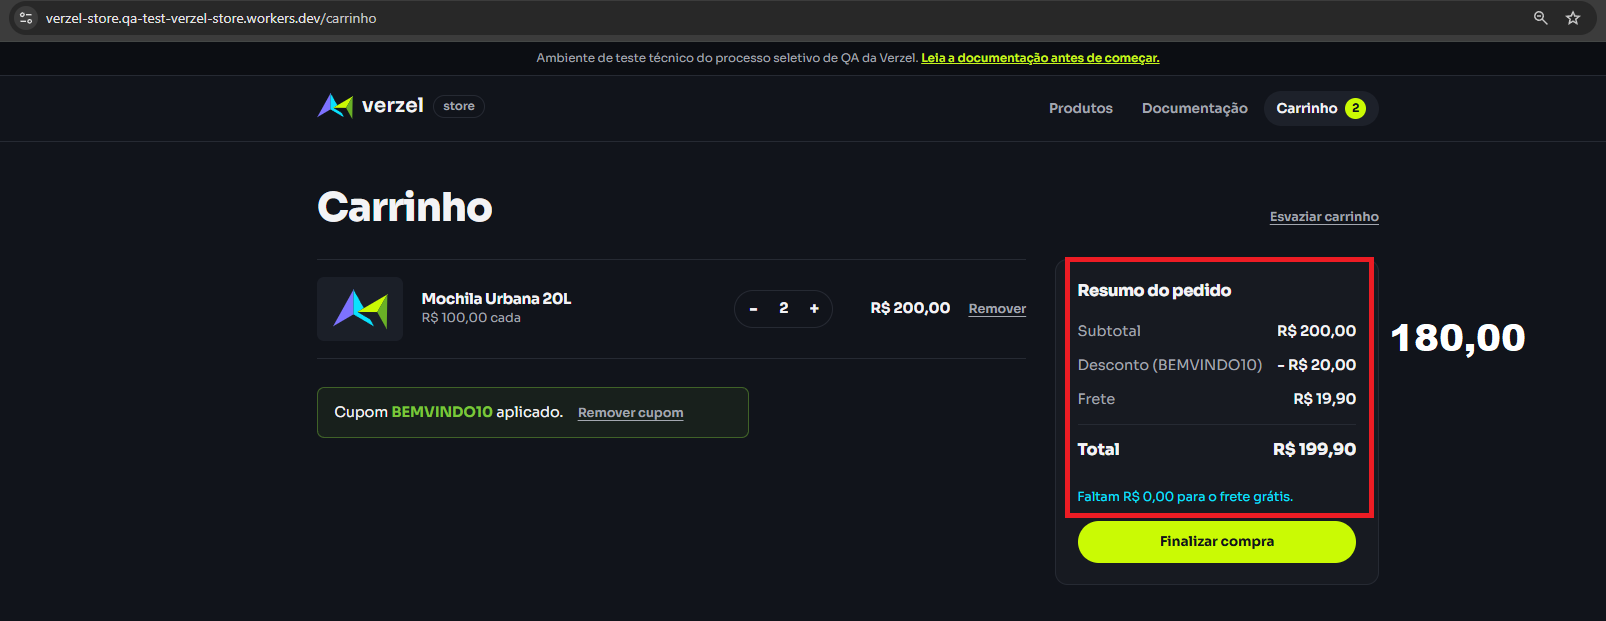
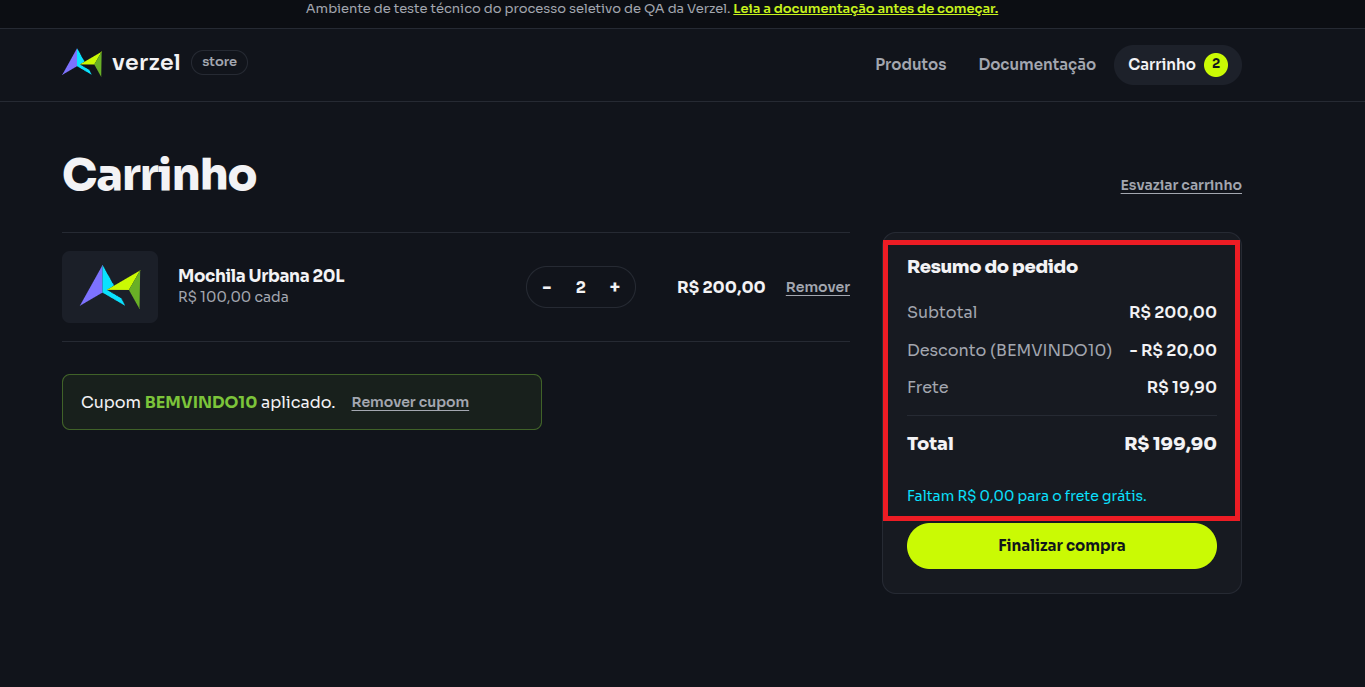
correcao de cenarios evidencias documentar uso de ia e bugs

diff --git a/docs/execucao-manual.md b/docs/execucao-manual.md
@@ -1,26 +1,26 @@
 # Execução manual e exploratória
 
 Legenda: **Passou**, **Falhou**, **Parcial** (parte executada; ver observação) e **A executar**. Quando o cenário foi coberto pela automação, está indicado em Observações.
-Data das execuções já registradas: 07/10/2026. Em caso de falha, o BUG está detalhado em [`bugs.md`](bugs.md).
+Data das execuções já registradas: 07/10/2026. Atualizações manuais desta revisão: 08/10/2026. Em caso de falha, o BUG está detalhado em [`bugs.md`](bugs.md).
 
 | # | Arquivo | Cenário | CA | Tipo | Resultado | Bug | Evidência | Observações |
 |---|---|---|---|---|---|---|---|---|
 | 01 | 01-cupom-desconto.feature | Cupom BEMVINDO10 aplica 10% de desconto sobre o subtotal | CA01 | ui | Passou |  | `docs/dom-referencia/carrinho-cupom-aplicado.html` | 2 Camisetas + 3 Calças: subtotal R$ 539,50, desconto R$ 53,95 (10%), frete Grátis, total R$ 485,55. A UI exibe "Cupom BEMVINDO10 aplicado." (a frase "Cupom aplicado: 10%..." é da API). |
 | 02 | 01-cupom-desconto.feature | Código do cupom ignora maiúsculas/minúsculas e espaços nas pontas | CA02 | ui,api | Passou |  |  | Automatizado: UI (5 variações) e API (6 variações) aceitam caixa e espaços nas pontas. |
-| 03 | 01-cupom-desconto.feature | Códigos com espaço no meio ou vazios não aplicam desconto | CA02 | ui,api | A executar |  |  |  |
+| 03 | 01-cupom-desconto.feature | Códigos com espaço no meio ou vazios não aplicam desconto | CA02 | ui,api | Passou |  |  | UI: cupom vazio exibe “Informe um cupom.”; `BEM VINDO10` é inválido. API: cupom composto por espaços não aplica desconto (`aplicado: false`, desconto R$ 0,00). |
 | 04 | 01-cupom-desconto.feature | Cupom inexistente exibe "Cupom inválido." e não desconta | CA03 | ui,api | Passou |  | `docs/dom-referencia/carrinho-cupom-invalido.html` | UI exibe "Cupom inválido." (role alert, campo com aria-invalid), desconto R$ 0,00 e total sem alteração. API também passou (automatizado). |
 | 05 | 01-cupom-desconto.feature | Cupom expirado exibe "Cupom expirado." e não desconta | CA04 | ui,api | Passou |  |  | Automatizado: UI exibe "Cupom expirado." (role alert) sem desconto; API também passou. |
-| 06 | 01-cupom-desconto.feature | Cupom expirado também respeita maiúsculas/minúsculas e espaços | CA04 | ui | A executar |  |  |  |
+| 06 | 01-cupom-desconto.feature | Cupom expirado também respeita maiúsculas/minúsculas e espaços | CA04 | ui,api | Passou |  |  | Confirmado pelo usuário na UI e na API: `verao2026`, `VERAO2026`, `  VERAO2026` e `VERAO2026  ` retornam “Cupom expirado.”. |
 | 07 | 01-cupom-desconto.feature | Não é possível acumular dois cupons | CA05 | ui | Passou |  | `docs/dom-referencia/carrinho-cupom-aplicado.html` | A UI impede acumular: com cupom aplicado o campo de cupom some e só resta "Remover cupom". Confirmar visualmente na tela. |
 | 08 | 01-cupom-desconto.feature | Trocar de cupom removendo o atual antes | CA05 | ui | Passou |  |  | Automatizado (UI): o campo some com cupom aplicado; "Remover cupom" restaura o resumo e o cupom expirado é recusado. |
 | 09 | 01-cupom-desconto.feature | Reaplicar o mesmo cupom não duplica o desconto | CA05 | ui | Passou |  | `docs/dom-referencia/carrinho-cupom-aplicado.html` | Não é possível reaplicar o mesmo cupom: o campo fica oculto enquanto há cupom aplicado. |
-| 10 | 01-cupom-desconto.feature | Alterar a quantidade com cupom aplicado recalcula o desconto | - | exploratorio,ui | Passou |  |  | Automatizado (UI): com BEMVINDO10, 1 → 2 mochilas leva o desconto de R$ 10,00 a R$ 20,00. |
-| 11 | 01-cupom-desconto.feature | Remover todos os itens com cupom aplicado | - | exploratorio,ui | A executar |  |  |  |
+| 10 | 01-cupom-desconto.feature | Alterar a quantidade com cupom aplicado recalcula o desconto e o total | BUG-001 | exploratório, ui, api | Falhou | BUG-001 | evidencias/BUG-001-ui-frete-subtotal-200-com-cupom.png | Com BEMVINDO10, aumentar de 1 para 2 mochilas recalcula o desconto de R$ 10,00 para R$ 20,00, mas cobra R$ 19,90 de frete no subtotal de R$ 200,00. Total obtido: R$ 199,90; esperado: R$ 180,00. |
+| 11 | 01-cupom-desconto.feature | Remover todos os itens com cupom aplicado | - | exploratorio,ui | Passou |  |  | Ao remover o último item pelo botão “Remover”, o carrinho fica vazio e o cupom é removido. |
 | 12 | 02-frete-gratis.feature | Frete conforme o subtotal (limite de R$ 200,00 inclusive) | CA06,CA07 | ui,api | Falhou | BUG-001 | `BUG-001-api-calcular-subtotal-200.png` | Linhas de R$ 200,00 falham (frete R$ 19,90). Demais linhas passam. |
-| 13 | 02-frete-gratis.feature | Carrinho informa quanto falta para o frete grátis | CA07 | ui | A executar |  |  | Automatizado cobre R$ 199,80 ("Faltam R$ 0,20" visível). Falta 1 camiseta (faltam R$ 140,10). |
+| 13 | 02-frete-gratis.feature | Carrinho informa quanto falta para o frete grátis | CA07 | ui | Falhou | BUG-001 |  | Com 1 mochila, informa “Faltam R$ 100,00”. Com 2 mochilas (subtotal R$ 200,00), informa “Faltam R$ 0,00”, mas cobra frete de R$ 19,90; relacionado ao BUG-001. |
 | 14 | 02-frete-gratis.feature | Ao atingir R$ 200,00 o aviso de "falta" deixa de ser exibido | CA06 | ui | Falhou | BUG-001 | `BUG-001-ui-frete-subtotal-200-sem-cupom.png` | Exibe "Faltam R$ 0,00 para o frete grátis" e cobra frete. |
 | 15 | 02-frete-gratis.feature | Frete grátis considera o subtotal ANTES do desconto | CA08 | ui,api | Falhou | BUG-001 | `BUG-001-ui-frete-subtotal-200-com-cupom.png` | Total R$ 199,90; esperado R$ 180,00. Causa raiz no limite de R$ 200,00. |
-| 16 | 02-frete-gratis.feature | Valor faltante não considera o desconto do cupom | CA08 | api | A executar |  |  |  |
+| 16 | 02-frete-gratis.feature | Valor faltante não considera o desconto do cupom | CA08 | api | Passou |  |  | `POST /api/carrinho/calcular`, P005 × 1 com `BEMVINDO10`: subtotal R$ 100,00, desconto R$ 10,00, frete R$ 19,90 e `valorFaltanteFreteGratis: 100`. O valor faltante usa o subtotal antes do desconto. |
 | 17 | 02-frete-gratis.feature | Desconto do cupom não incide sobre o frete | CA09 | ui,api | Passou |  | `BUG-001-ui-frete-subtotal-200-com-cupom.png` | Verificado com 2 mochilas: desconto de R$ 20,00 só sobre os produtos. |
 | 18 | 02-frete-gratis.feature | Subtotal logo abaixo de R$ 200,00 mantém o frete mesmo com cupom | CA08 | api | A executar |  |  |  |
 | 19 | 03-limite-quantidade.feature | Interface permite até 5 unidades do mesmo produto | CA10 | ui | Passou |  | `CA10-ui-limite-5-todos-produtos.png` | Os 8 produtos chegaram a 5 unidades. |
@@ -28,7 +28,7 @@ Data das execuções já registradas: 07/10/2026. Em caso de falha, o BUG está 
 | 21 | 03-limite-quantidade.feature | Interface impede aumentar a quantidade para além de 5 no carrinho | CA10 | ui | Passou |  | `CA10-ui-limite-5-todos-produtos.png` | Sem campo numérico; só botões "-" e "+". |
 | 22 | 03-limite-quantidade.feature | API valida o limite de quantidade | CA10 | api | Falhou | BUG-002 | `BUG-002-api-calcular-quantidade-6.png` | 6, 12, 21 e 100 unidades aceitas (200). Valores inválidos (0, -1, 1.5, "2", null) retornam 422 corretamente. |
 | 23 | 03-limite-quantidade.feature | API também aplica o limite ao confirmar o pedido | CA10 | api | Falhou | BUG-003 | `BUG-003-api-pedidos-quantidade-6.png` | 201 Created, pedido VZ-908998 com 6 unidades. |
-| 24 | 03-limite-quantidade.feature | Mesmo produto repetido na lista é rejeitado como duplicado | CA10 | api | A executar |  |  |  |
+| 24 | 03-limite-quantidade.feature | Mesmo produto repetido na lista é rejeitado como duplicado | CA10 | api | Passou |  |  | Repetir P004 (6+6, 3+2 e 1+0) retorna `ITEM_DUPLICADO`, com `campo: "itens[1].produtoId"`. |
 | 25 | 04-calculo-total.feature | Total do carrinho com e sem cupom | CA01,CA06,CA07,CA08,CA09,CA11 | api,ui | Falhou | BUG-001 | `BUG-001-api-calcular-subtotal-200.png` | 8 de 10 linhas passam; falham #4 e #5 (subtotal R$ 200,00). |
 | 26 | 04-calculo-total.feature | Valores monetários da resposta têm no máximo 2 casas decimais | CA11 | api | Passou |  |  | Automatizado (tests/api/calculo.spec.ts). |
 | 27 | 04-calculo-total.feature | Cálculo não grava nada e é repetível | - | api | Passou |  |  | Automatizado. |
@@ -50,20 +50,45 @@ Data das execuções já registradas: 07/10/2026. Em caso de falha, o BUG está 
 | 43 | 06-api-contrato-e-erros.feature | Rota inexistente | - |  | Passou |  |  | Automatizado. |
 | 44 | 06-api-contrato-e-erros.feature | Método HTTP não permitido | - |  | Parcial |  |  | Automatizado em 3 de 4 rotas. Falta DELETE /api/produtos/P001. |
 | 45 | 06-api-contrato-e-erros.feature | Corpo com JSON malformado | - |  | Passou |  |  | Automatizado. |
-| 46 | 06-api-contrato-e-erros.feature | Corpo que não é um objeto JSON | - |  | A executar |  |  |  |
+| 46 | 06-api-contrato-e-erros.feature | Corpo que não é um objeto JSON | - | api | Passou |  |  | `[]`, `"teste"`, `123` e `null` retornam `JSON_INVALIDO`. `{}` é um objeto JSON válido e retorna `ITENS_OBRIGATORIOS`, portanto é um caso separado. |
 | 47 | 06-api-contrato-e-erros.feature | Lista de itens ausente ou vazia | - |  | Passou |  |  | Automatizado. |
-| 48 | 06-api-contrato-e-erros.feature | Item que não é um objeto válido | - |  | Parcial |  |  | Automatizado só com ["P001"]. Faltam null e itens sem campo. |
-| 49 | 06-api-contrato-e-erros.feature | Item com produto inexistente | - |  | Parcial |  |  | 422 PRODUTO_NAO_ENCONTRADO confirmado; campo "itens[0].produtoId" não verificado. |
+| 48 | 06-api-contrato-e-erros.feature | Item que não é um objeto válido | - | api | Falhou | BUG-004 |  | `["P001"]` e `null` retornam `ITEM_INVALIDO`. Porém, `itens: [{}]` reproduz `PRODUTO_NAO_ENCONTRADO`, mensagem “Produto undefined não encontrado.”, campo `itens[0].produtoId`, em vez de `ITEM_INVALIDO`. |
+| 49 | 06-api-contrato-e-erros.feature | Item com produto inexistente | - | api | Passou |  |  | P009 retorna `PRODUTO_NAO_ENCONTRADO`, com `campo: "itens[1].produtoId"` quando o item inválido é o segundo da lista. |
 | 50 | 06-api-contrato-e-erros.feature | Campo do erro aponta o item com problema | - |  | A executar |  |  |  |
-| 51 | 06-api-contrato-e-erros.feature | Ordem de validação quando há mais de um problema | - |  | A executar |  |  |  |
+| 51 | 06-api-contrato-e-erros.feature | Ordem de validação quando há mais de um problema | - | api | Passou |  |  | Resultado observado: quantidade inválida é reportada antes de produto inexistente; com quantidade válida, o produto inexistente é reportado. Cupom inválido é informado em `cupom.mensagem` sem impedir o cálculo. A documentação não define precedência; registrar como observação, não como bug. |
 | 52 | 06-api-contrato-e-erros.feature | Cupom inválido ou expirado no cálculo não gera erro | - |  | Passou |  |  | Automatizado. |
 | 53 | 06-api-contrato-e-erros.feature | Valores de cupom fora do padrão | - |  | A executar |  |  |  |
-| 54 | 06-api-contrato-e-erros.feature | Código do cupom devolvido na resposta | - |  | A executar |  |  |  |
+| 54 | 06-api-contrato-e-erros.feature | Código do cupom devolvido na resposta | - | api | Passou |  |  | Cupom válido retorna `codigo: "BEMVINDO10"` e `aplicado: true`; cupom inválido com espaços também foi observado com `codigo: ""` e `aplicado: false`. |
 | 55 | 06-api-contrato-e-erros.feature | Resumo do pedido confirmado é igual ao cálculo do carrinho | - |  | Passou |  |  | Automatizado. |
+
+## Nota de atualização
+
+- **BUG-004** foi atribuído ao cenário 48 após reproduzir `itens: [{}]` e receber `PRODUTO_NAO_ENCONTRADO` com `Produto undefined não encontrado`, em vez de `ITEM_INVALIDO`. Confirmar/adicionar o registro correspondente em [`bugs.md`](bugs.md) antes do envio.
+- O cenário 10 permanece sem alteração: reexecutar e reconciliar com BUG-001 se ainda houver divergência entre o status registrado e o resultado observado.
 
 ## Sessão exploratória
 
-- **Objetivo:** encontrar problemas em torno de cupom e frete que os critérios de aceite não cobrem diretamente.
-- **Duração:**
-- **Áreas exploradas:**
-- **Achados:**
+**Objetivo:** encontrar problemas em torno de cupom e frete que os critérios de aceite não cobrem diretamente.
+
+**Duração:** 60 minutos
+
+**Áreas exploradas:**
+- Aplicação de cupons válidos, inválidos e expirados;
+- Tratamento de espaços e diferenças entre letras maiúsculas e minúsculas;
+- Cálculo do frete no limite de R$ 200,00;
+- Cálculo do desconto sobre o subtotal;
+- Validação de quantidades e estruturas inválidas nas requisições da API.
+
+### Achados
+
+- **BUG-001:** ao atingir exatamente R$ 200,00 de subtotal, o sistema cobra R$ 19,90 de frete, mesmo informando que não falta valor para obter frete grátis. Reproduzido na UI e na API, inclusive com o cupom `BEMVINDO10`.
+- **BUG-002:** a API `POST /api/carrinho/calcular` aceita quantidades superiores a 5 unidades do mesmo produto.
+- **BUG-003:** a API `POST /api/pedidos` confirma pedidos com mais de 5 unidades do mesmo produto.
+- **BUG-004:** o envio de um item vazio (`{"itens":[{}]}`) retorna `PRODUTO_NAO_ENCONTRADO` e a mensagem `"Produto undefined não encontrado."`, enquanto outras estruturas inválidas retornam `ITEM_INVALIDO`. A expectativa para esse caso precisa ser confirmada com o contrato da API.
+
+### Comportamentos verificados
+
+- Cupons expirados foram rejeitados nas variações testadas;
+- Cupons inválidos não concederam desconto;
+- A API calculou corretamente o desconto de 10% no caso testado;
+- Estruturas de requisição inválidas foram rejeitadas conforme os resultados registrados na execução manual.

diff --git a/docs/bugs.md b/docs/bugs.md
@@ -12,6 +12,8 @@ Ambiente: Verzel Store v2.3.0 (card VZS-142), Chrome (UI), Postman e Playwright 
 | BUG-001 | Frete cobrado quando o subtotal é exatamente R$ 200,00 | Alta | Alta | CA06, CA08 | UI e API |
 | BUG-002 | `/api/carrinho/calcular` aceita mais de 5 unidades do mesmo produto | Média | Média | CA10 | API |
 | BUG-003 | `/api/pedidos` confirma pedido com mais de 5 unidades do mesmo produto | Alta | Alta | CA10 | API |
+| BUG-004 | Item vazio na API retorna erro de produto inexistente em vez de item inválido | Baixa | Média | Validação de entrada / contrato da API | API |
+
 
 ---
 
@@ -140,8 +142,44 @@ Status **200** em todas as chamadas; a API calcula o carrinho normalmente acima 
 
 ---
 
+
+## BUG-004 | Item vazio na API retorna erro de produto inexistente em vez de item inválido
+
+* **Severidade / Prioridade:** Baixa / Média (mensagem de erro inadequada para uma estrutura de item incompleta; não foi demonstrado impacto além da validação da requisição)
+* **Onde:** API `POST /api/carrinho/calcular`
+* **Relacionado:** validação da estrutura dos itens enviados na requisição
+
+**Passos para reproduzir**
+
+1. Enviar `POST /api/carrinho/calcular` com `Content-Type: application/json` e o corpo:
+
+```json
+{
+  "itens": [{}]
+}
+```
+
+2. Repetir a chamada para confirmar o comportamento.
+
+**Resultado esperado**
+
+* A API deve rejeitar o item incompleto com um erro de validação que identifique a estrutura inválida do item, de forma consistente com a validação aplicada a outros formatos inválidos.
+
+**Resultado obtido**
+
+* A API retorna erro `PRODUTO_NAO_ENCONTRADO`, com a mensagem `"Produto undefined não encontrado."` e o campo `itens[0].produtoId`.
+
+**Evidências**
+
+* Registrar a resposta da requisição `{"itens":[{}]}` no Postman ou em outra ferramenta utilizada nos testes.
+
+**Observação**
+
+* O comportamento foi reproduzido em uma segunda execução isolada.
+* Para `{"itens":[null]}` e `{"itens":[["P004"]]}`, a API retorna `ITEM_INVALIDO`, com a mensagem de que cada item deve ser um objeto com `produtoId` e `quantidade`.
+* A documentação consultada não especifica explicitamente a resposta esperada para `{"itens":[{}]}`. Por isso, este caso deve ser apresentado como uma inconsistência de validação a ser confirmada com o contrato da API, e não como uma violação inequívoca de um critério de aceite.
+
+---
 ## Observação sobre o que passou
 
-Os critérios CA01, CA02, CA03, CA04, CA07 e CA09, o cálculo dos demais casos da matriz (8 de 10), a validação de quantidades inválidas
-e o limite de 5 unidades na interface passaram sem divergência. O pedido com dados válidos dentro do limite
-(5 Camisetas, pedido `VZ-298028`) também foi confirmado corretamente.
+Os critérios CA01, CA02, CA03, CA04, CA07 e CA09, os demais casos aprovados da matriz, a validação de quantidades inválidas e o limite de 5 unidades na interface passaram sem divergência. Foram registrados os BUG-001, BUG-002 e BUG-003, relacionados ao frete e ao limite de quantidade na API, além do BUG-004, referente à validação de um item vazio, cuja expectativa ainda precisa ser confirmada com o contrato da API.

diff --git a/docs/evidencias.md b/docs/evidencias.md
@@ -1,15 +1,13 @@
 # Evidências da execução
 
-Arquivos em [`../evidencias/`](../evidencias). HTML das telas usado para os seletores em [`dom-referencia/`](dom-referencia).
-
 ## 1. Automação (Playwright)
 
-- **Data:** 07/10/2026
-- **Comandos:** `npm run test:api` e `npm run test:ui`
-- **Ambiente:** Verzel Store v2.3.0, Chromium (UI), 2 workers
+- Data: 07/10/2026
+- Comandos: `npm run test:api` e `npm run test:ui`
+- Ambiente: Verzel Store v2.3.0, Chromium, 2 workers
 
 | Projeto | Total | Passou | Falhou |
-|---|---|---|---|
+|---|---:|---:|---:|
 | API | 57 | 50 | 7 |
 | UI | 34 | 32 | 2 |
 
@@ -28,14 +26,6 @@ As 9 falhas correspondem aos bugs reportados em [`bugs.md`](bugs.md). Nenhuma ou
 | UI | `cupom-e-frete.spec.ts` CA08 frete considera subtotal antes do desconto | BUG-001 | frete "R$ 19,90" (esperado "Grátis") |
 
 Os testes de controle que passam delimitam o defeito: subtotal R$ 199,80 (cobra frete) e R$ 219,80 (frete grátis).
-
-**Arquivos a anexar (a partir da pasta `test-results/` e do relatório HTML):**
-
-| Arquivo | O que mostra |
-|---|---|
-| `evidencias/automacao-relatorio-html.png` | Relatório do `npx playwright show-report` com as falhas e a anotação `bug` |
-| `evidencias/BUG-001-playwright-ui-ca06.png` | Screenshot da falha do teste de UI do CA06 |
-| `evidencias/BUG-001-playwright-ui-ca08.png` | Screenshot da falha do teste de UI do CA08 |
 
 ## 2. Evidências manuais
 

diff --git a/docs/uso-de-ia.md b/docs/uso-de-ia.md
@@ -1,7 +1,18 @@
-# Uso de IA (rascunho para o campo do formulário)
+# Uso de IA
 
-Preencha com o que de fato aconteceu. Sugestão de pontos a descrever:
+Durante a execução do teste, utilizei apoio de IA para organizar o plano de trabalho, revisar a redação dos cenários em Gherkin, estruturar a automação e apoiar a análise das falhas.
 
-- Onde usei (ex.: apoio para organizar o plano de execução, rascunho dos cenários em Gherkin, esqueleto do Playwright).
-- O que eu revisei e validei por conta própria (execução manual, valores esperados, evidências, bugs).
-- O que eu ajustei no que a IA sugeriu (ex.: seletores da interface, ambiguidades).
+A IA não substituiu a validação manual nem a execução real do ambiente. Todos os cenários, resultados e conclusões foram conferidos antes de serem registrados no repositório.
+
+## Como a IA foi utilizada
+
+- organização inicial do plano e da estrutura do projeto;
+- revisão da linguagem e clareza dos cenários em português;
+- apoio na estruturação da automação com Playwright;
+- análise das falhas para separar problema da aplicação de erro de teste;
+- revisão e organização dos documentos de evidência e relatório.
+
+## Limites
+
+- A IA não acessou a loja nem a API diretamente;
+- testes de carga, estresse e segurança ficaram fora do escopo do desafio.
